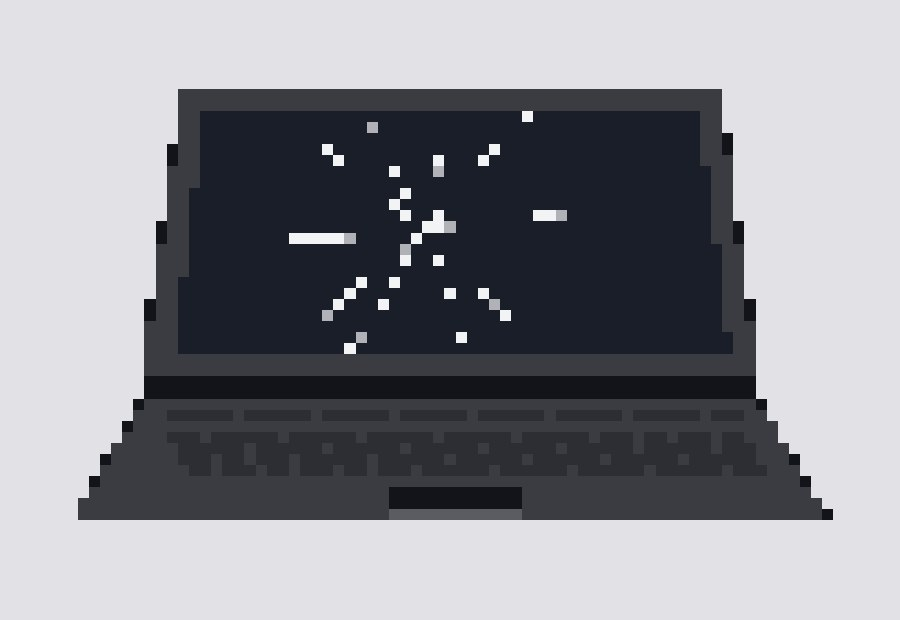
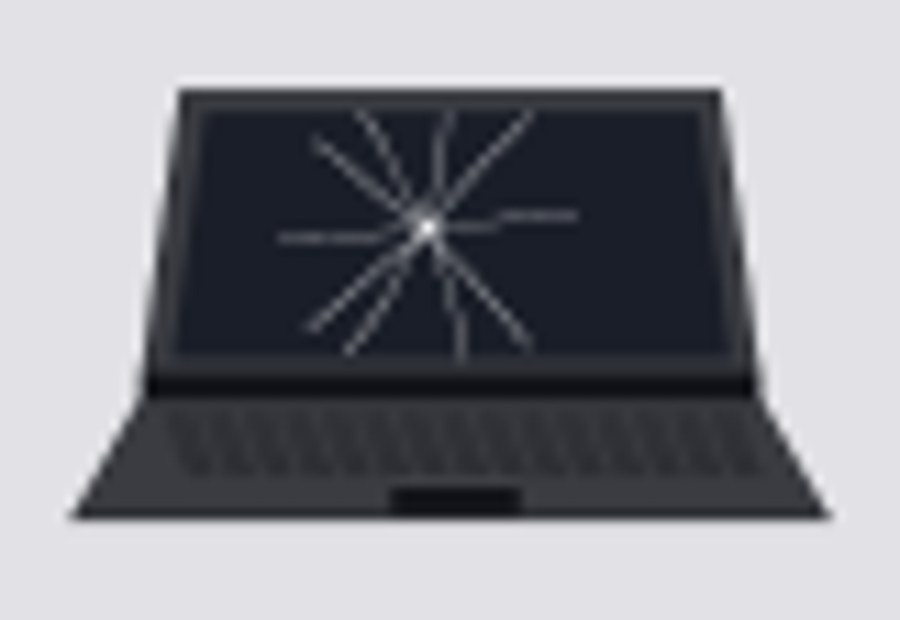
fix: render low_res degradation with a realistic resampling filter
SYN-033 is labelled low_res but measured as one of the sharper images in the
set: Laplacian variance 539 against a set median around 520. The cause is that
degrade() upscaled with NEAREST in both directions, and hard 11px blocks read
as *sharp* to every frequency-domain measure. The case was not testing low
resolution at all.

Measured on this renderer, same source image:

  native                505.4
  NEAREST upscale       144.6   <- what we were generating
  BILINEAR                1.3
  BICUBIC                 1.1
  LANCZOS                 1.2

No camera, phone or upload pipeline produces nearest-neighbour blocks. BOX
down, BICUBIC up is what a genuinely small image looks like after something
stretches it. Regenerating the dataset changes exactly one file; both CSVs are
byte-identical.

This is a dataset-realism fix, not a tuning pass: the label was always right
and is unchanged, the image simply never had the property the label described.

Changed region(s): [[0.0933, 0.1226, 0.8711, 0.7968], [0.3111, 0.1839, 0.6533, 0.5823], [0.0622, 0.7048, 0.9333, 0.8581]]

diff --git a/agent_core/tools/render_objects.py b/agent_core/tools/render_objects.py
@@ -301,8 +301,16 @@ def degrade(img: Image.Image, mode: str, rng: random.Random) -> Image.Image:
         w, h = img.size
         return img.crop((int(w * 0.62), int(h * 0.58), w, h)).resize((w, h), Image.LANCZOS)
     if mode == "low_res":
+        # Downsample with BOX (area-average, what a small sensor actually does), then
+        # restore with BICUBIC (what every phone, browser and upload pipeline actually
+        # does). The previous version used NEAREST in both directions, which produced
+        # hard 11px blocks -- and blocky edges read as *sharp* to any frequency-domain
+        # measure. Measured on this renderer: NEAREST upscaling gives a Laplacian variance
+        # of 144.6 where the undegraded image gives 505.4, so the "low resolution" case was
+        # scoring as a perfectly focused photograph. BICUBIC gives 1.1, which is what an
+        # upscaled thumbnail genuinely looks like.
         w, h = img.size
-        return img.resize((w // 11, h // 11), Image.NEAREST).resize((w, h), Image.NEAREST)
+        return img.resize((w // 11, h // 11), Image.BOX).resize((w, h), Image.BICUBIC)
     if mode == "obstructed":
         out = img.copy()
         d = ImageDraw.Draw(out)
